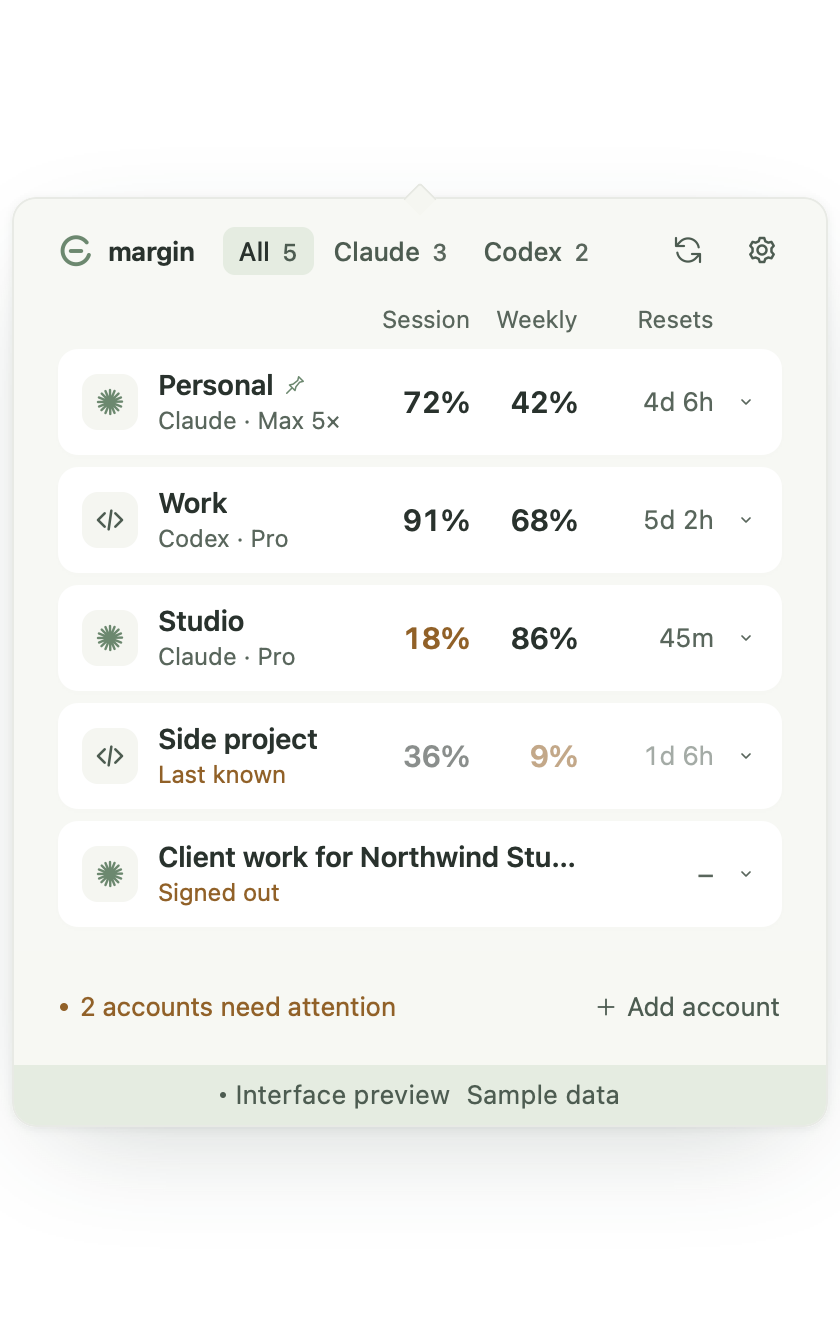
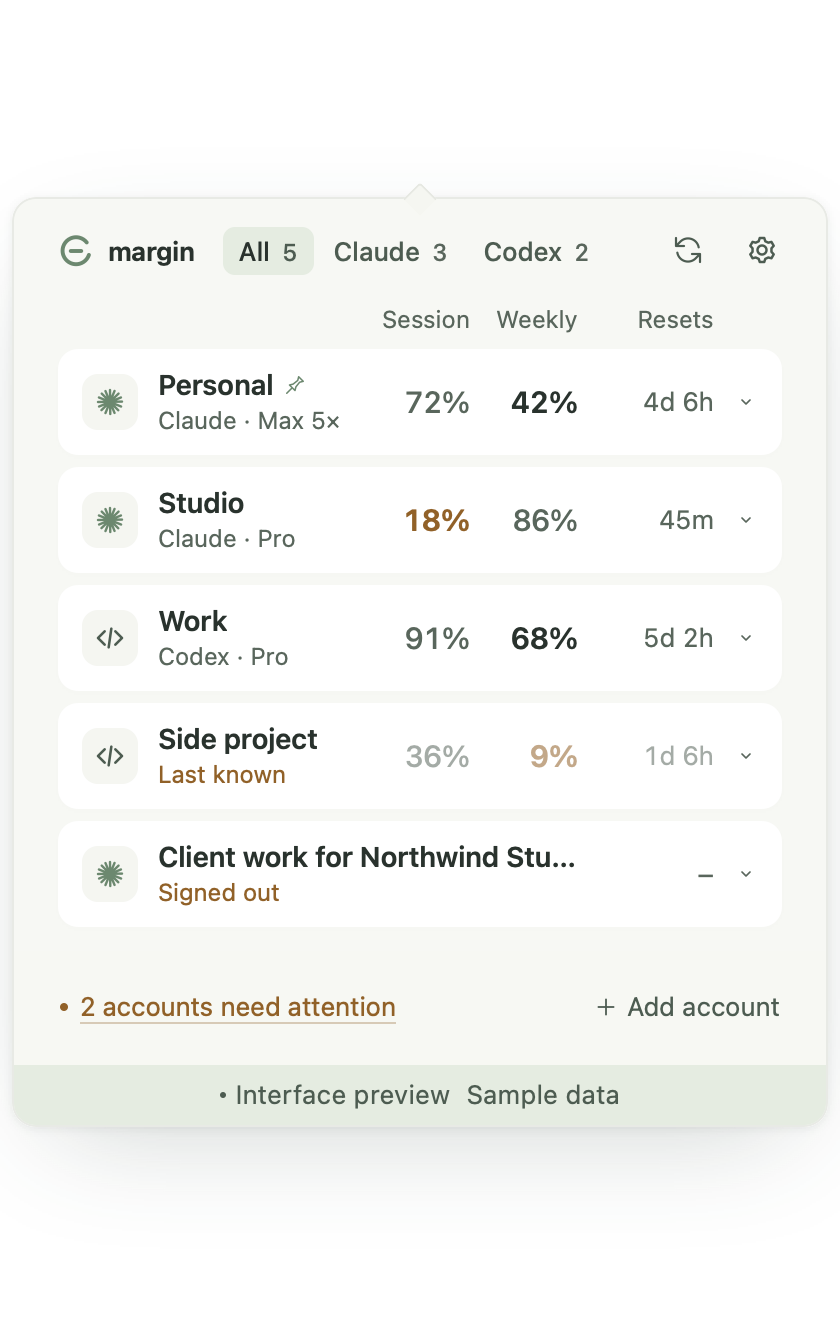
Refresh overview, compact, and settings screenshots

diff --git a/docs/screenshots.md b/docs/screenshots.md
@@ -8,10 +8,10 @@ Use WebKit at 420×660 CSS pixels and 2× scale. Preserve the sample-data label.
 
 | Image | State |
 | --- | --- |
-| `docs/images/overview-light.png`, `overview-dark.png` | `?demo=1` cards: Personal with session and weekly reset times, pace lines, and Fable, Opus, and Sonnet chips. |
-| `docs/images/compact-light.png`, `compact-dark.png` | `?demo=1&state=compact&layout=compact`: five accounts in one row each, including last-known and signed-out rows. |
+| `docs/images/overview-light.png`, `overview-dark.png` | `?demo=1` cards, lowest remaining first: Studio (18% session) with email, plan, pace lines, and the Sonnet chip, then Personal. |
+| `docs/images/compact-light.png`, `compact-dark.png` | `?demo=1&state=compact&layout=compact`: five accounts in one row each, pinned first, limiting value at full ink, last-known and signed-out rows last. |
 | `docs/images/history-light.png`, `history-dark.png` | History open on Personal, Session tab, scrolled so the panel starts at the top of the list: a new period, a recording gap, and the legend. |
-| `docs/images/settings-light.png` | Top of Settings, General tab: theme, Overview, Tray account, Tray shows, Show percentage, and refresh intervals. Notifications and updates are below the fold and not shown. |
+| `docs/images/settings-light.png` | Top of Settings, General tab: theme, Overview, Account order, Tray account, Tray shows, Show percentage, and Refresh while open. Notifications and updates are below the fold and not shown. |
 | `docs/images/settings-menu-light.png`, `settings-menu-dark.png` | Settings with the Tray account menu open and its selected option visible. |
 
 All nine PNGs are 840×1320 pixels and retain the sample-data label. `site/overview-light.png` and `site/overview-dark.png` are copies of the overview images; `site/og.png` embeds `overview-light.png`. Earlier screenshots remain available at their release tags.
